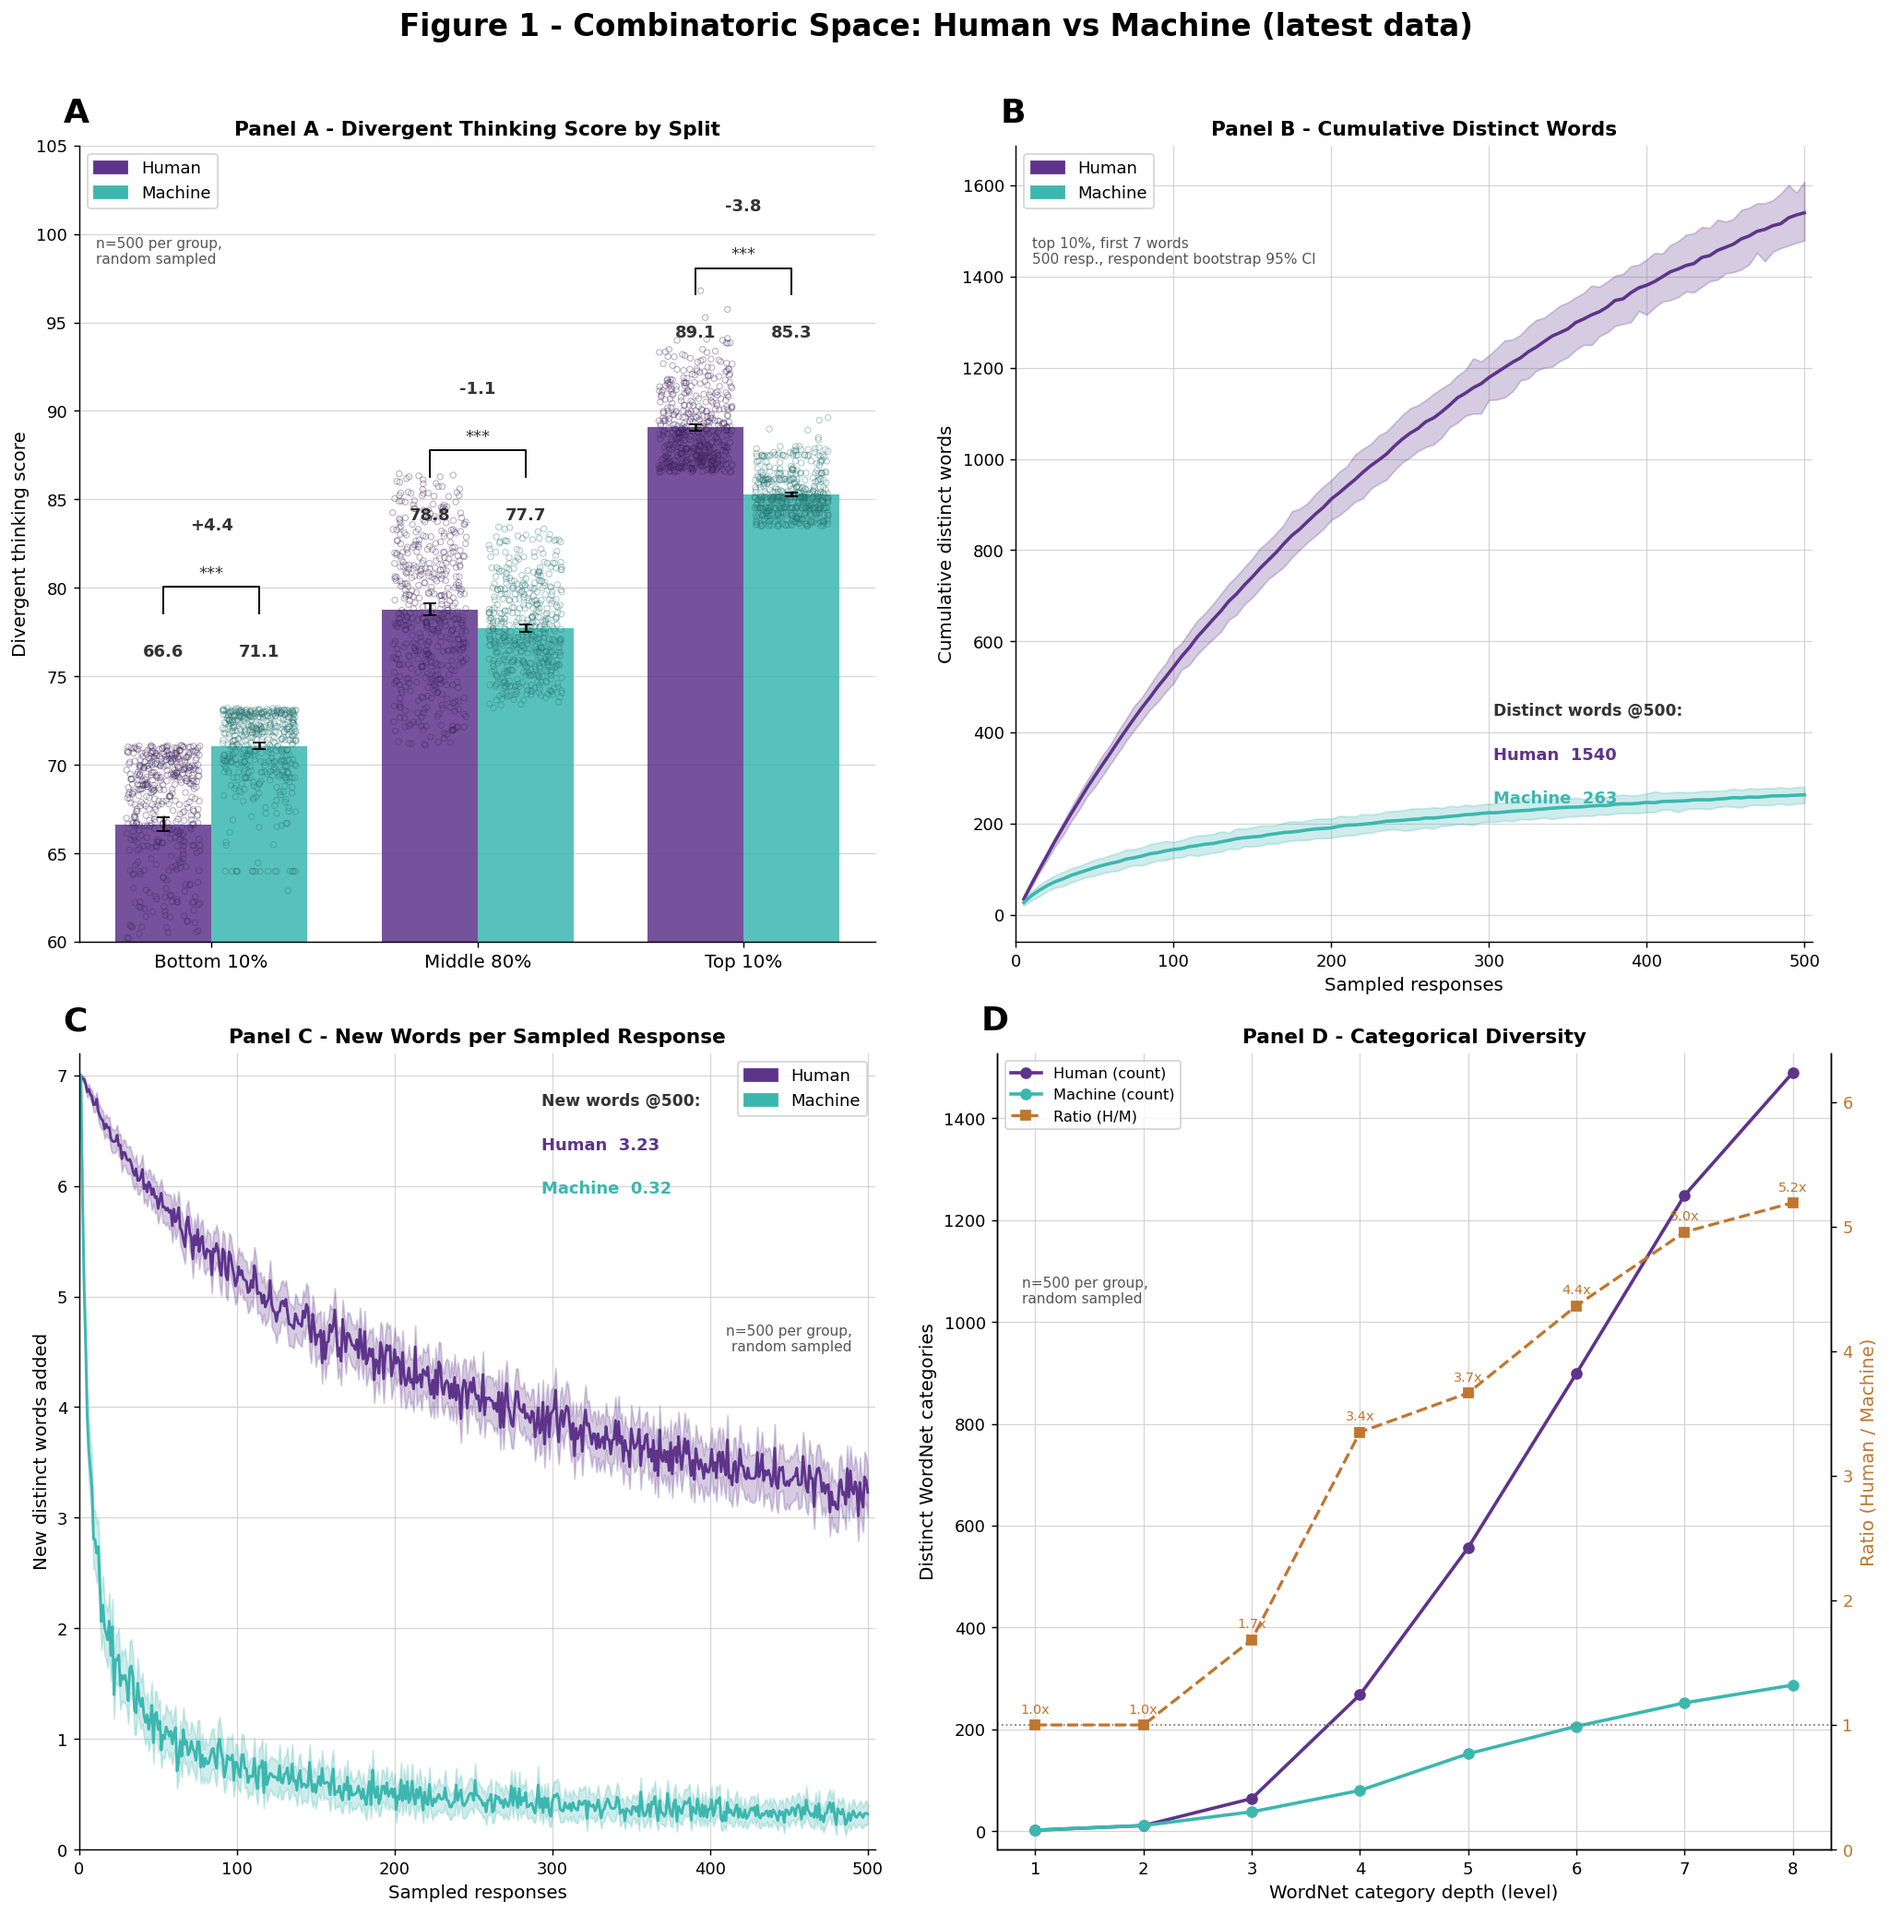
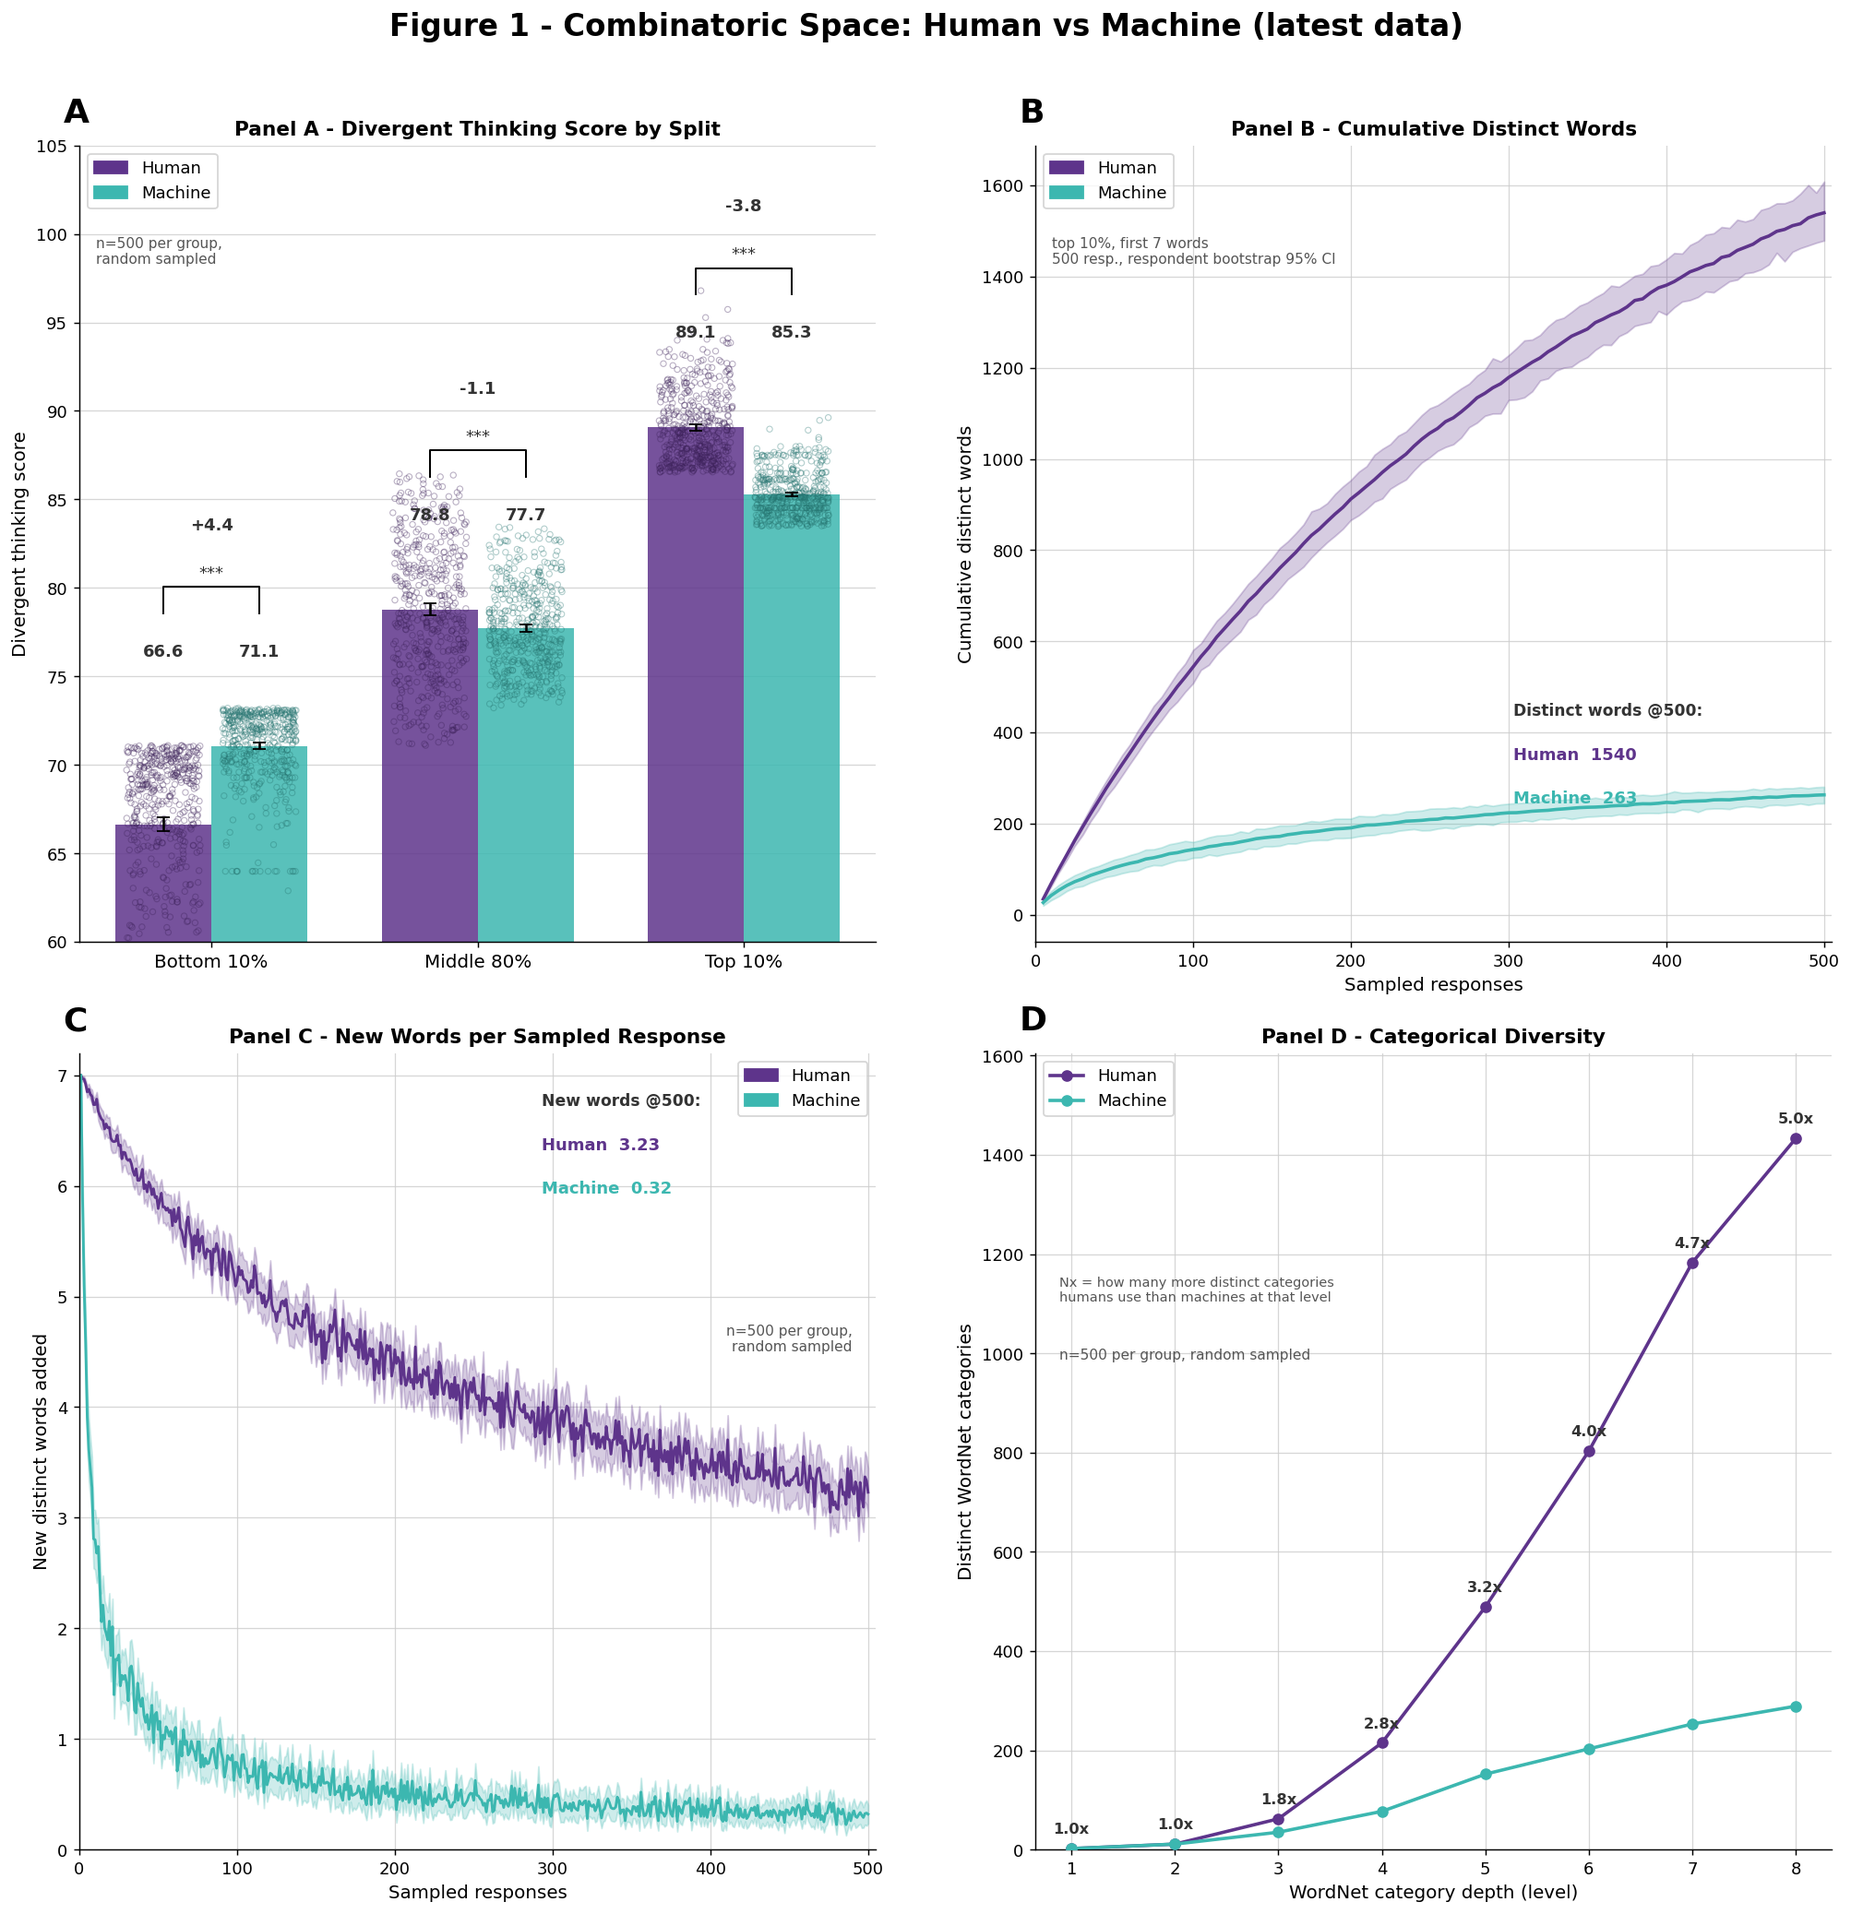
Study 1 - Space: Panel D - print ratio (Nx) above human line in black, drop dual axis

diff --git a/analysis/study 1 - space figure1.py b/analysis/study 1 - space figure1.py
@@ -165,21 +165,21 @@ def draw_D(ax):
         hc=len(cats_at(Hw,L)); mc=len(cats_at(Mw,L)); hcnt.append(hc);mcnt.append(mc);ratio.append(hc/mc if mc else np.nan)
     ax.plot(LEVELS,hcnt,'-o',color=HUMAN,lw=2,ms=6,zorder=3)
     ax.plot(LEVELS,mcnt,'-o',color=MACHINE,lw=2,ms=6,zorder=3)
+    # print the ratio (how many x more categories humans use) above each human point, black
+    for L,hc,r in zip(LEVELS,hcnt,ratio):
+        if not np.isnan(r):
+            ax.annotate(f"{r:.1f}x",(L,hc),textcoords="offset points",xytext=(0,9),ha='center',
+                        fontsize=9,weight='bold',color="#333333",zorder=6)
     ax.set_xlabel("WordNet category depth (level)",fontsize=11); ax.set_ylabel("Distinct WordNet categories",fontsize=11)
     ax.set_title("Panel D - Categorical Diversity",fontsize=12,weight='bold')
-    ax.spines[['top']].set_visible(False)
+    ax.spines[['top','right']].set_visible(False)
     ax.grid(color='#cccccc',linewidth=0.7,alpha=0.8,zorder=0); ax.set_axisbelow(True)
-    ax2=ax.twinx()
-    ax2.plot(LEVELS,ratio,'--s',color=RATIO,lw=1.8,ms=5,zorder=4)
-    ax2.axhline(1,color='gray',ls=':',lw=1)
-    for L,r in zip(LEVELS,ratio): ax2.annotate(f"{r:.1f}x",(L,r),textcoords="offset points",xytext=(0,7),ha='center',fontsize=8,color=RATIO)
-    ax2.set_ylabel("Ratio (Human / Machine)",fontsize=11,color=RATIO); ax2.tick_params(axis='y',labelcolor=RATIO)
-    ax2.set_ylim(0,max([r for r in ratio if not np.isnan(r)])+1.2); ax2.spines[['top']].set_visible(False)
-    h=[Line2D([0],[0],color=HUMAN,marker='o',lw=2,label='Human (count)'),
-       Line2D([0],[0],color=MACHINE,marker='o',lw=2,label='Machine (count)'),
-       Line2D([0],[0],color=RATIO,marker='s',ls='--',lw=1.8,label='Ratio (H/M)')]
-    leg=ax.legend(handles=h,loc='upper left',fontsize=9); leg._legend_box.align='left'
-    ax.text(0.03,0.72,f"n={SAMPLE_N} per group,\nrandom sampled",transform=ax.transAxes,fontsize=8.5,color='#555',va='top')
+    h=[Line2D([0],[0],color=HUMAN,marker='o',lw=2,label='Human'),
+       Line2D([0],[0],color=MACHINE,marker='o',lw=2,label='Machine')]
+    leg=ax.legend(handles=h,loc='upper left',fontsize=10); leg._legend_box.align='left'
+    ax.text(0.03,0.72,"Nx = how many more distinct categories\nhumans use than machines at that level",transform=ax.transAxes,fontsize=8,color='#555',va='top')
+    ax.text(0.03,0.63,f"n={SAMPLE_N} per group, random sampled",transform=ax.transAxes,fontsize=8.5,color='#555',va='top')
+    ax.set_ylim(0,max(hcnt)*1.12)
     x0,x1=ax.get_xlim(); y0,y1=ax.get_ylim(); ax.set_aspect(abs(x1-x0)/abs(y1-y0))
 
 # ---------- assemble ----------
